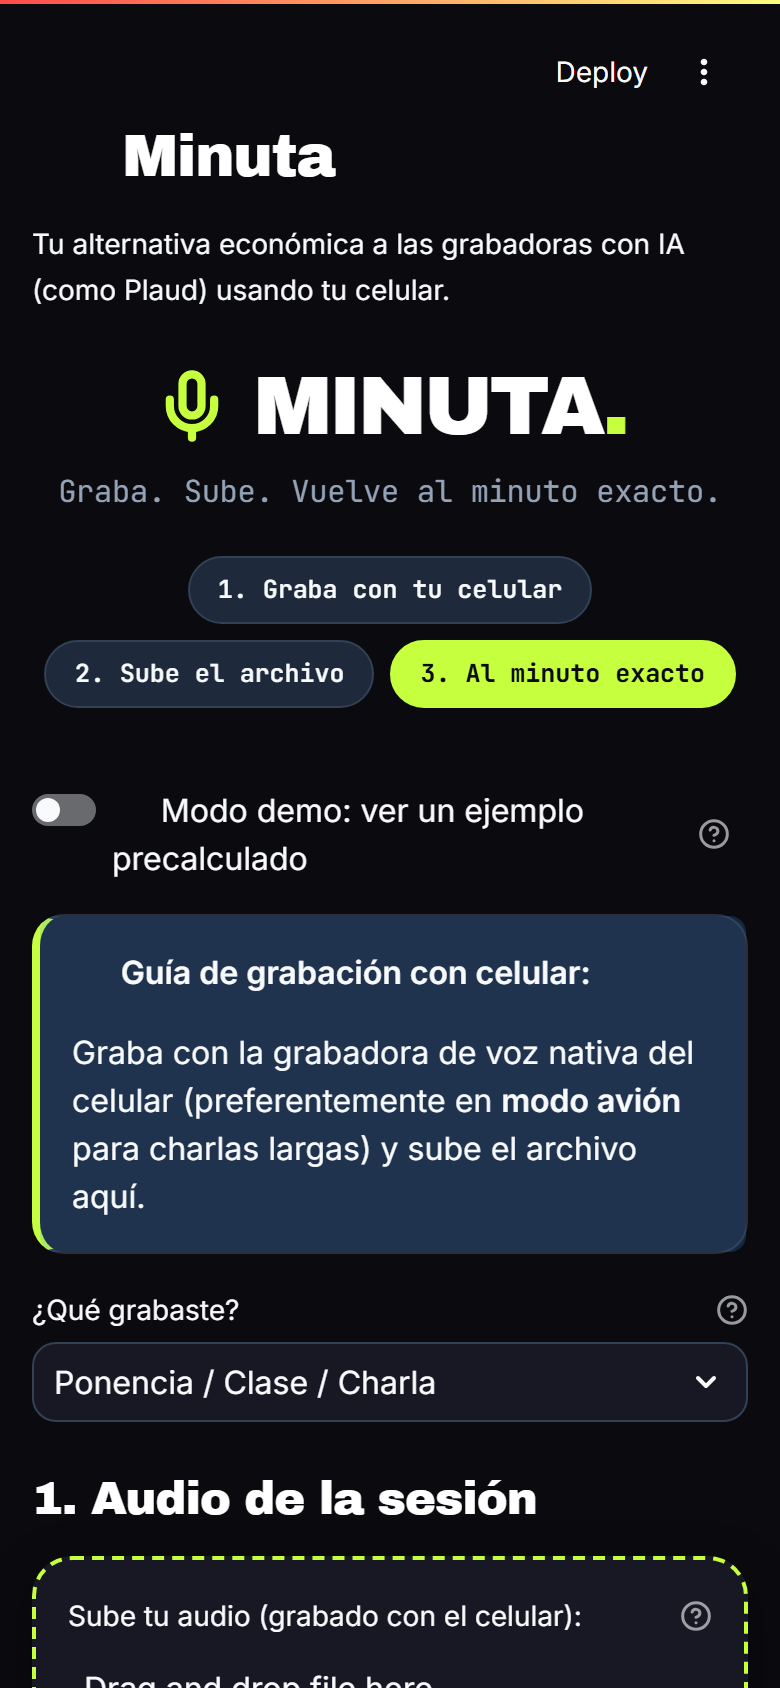
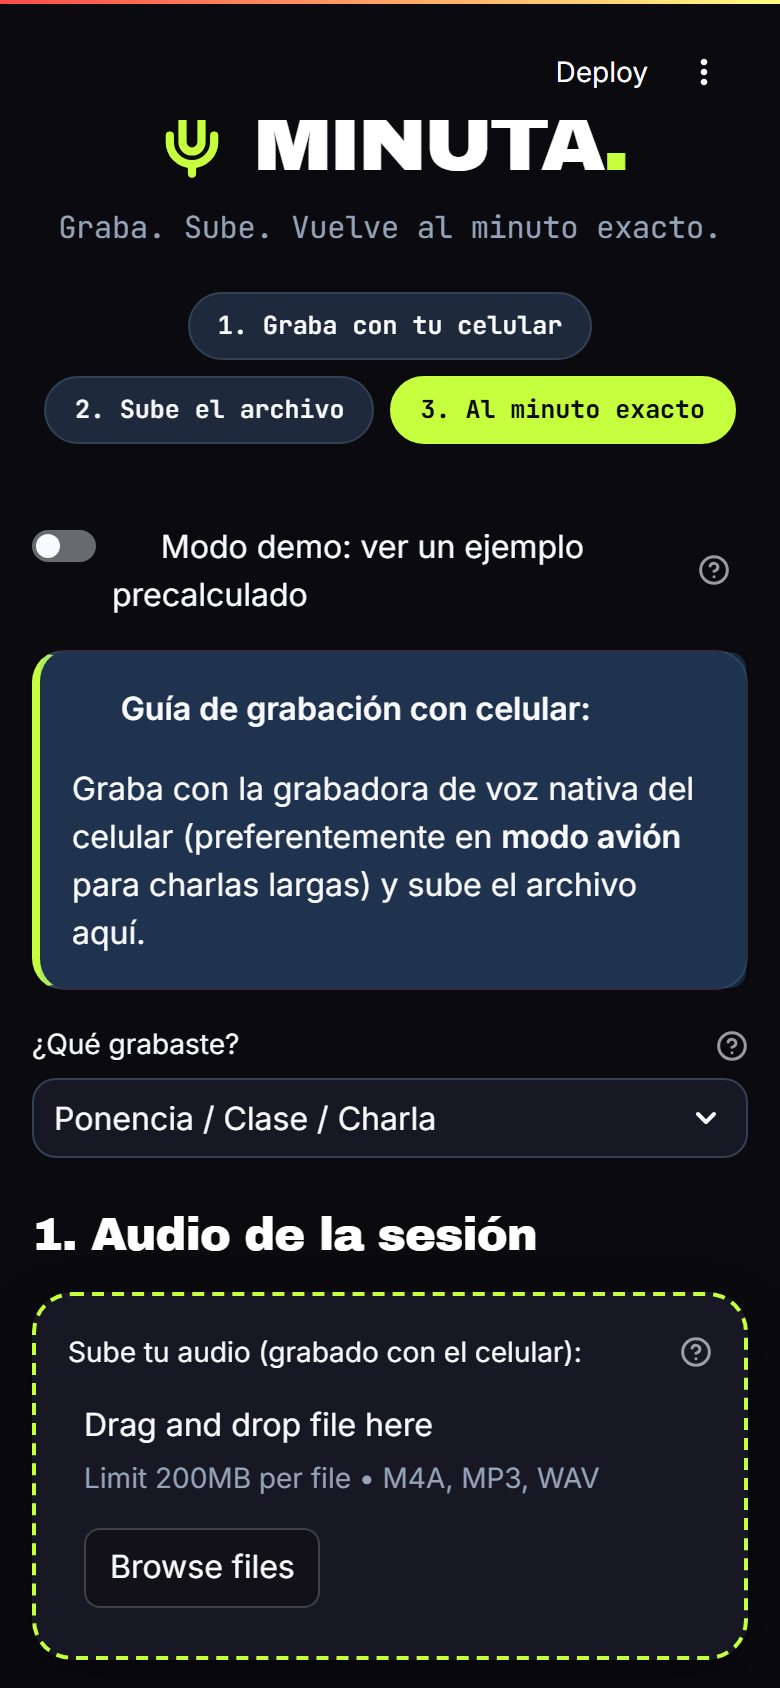
fix(app): el mapa mental se dibuja vacio en su pestana y encabezado duplicado
El mapa vive en una pestana que Streamlit monta oculta (ancho 0) y
markmap lo dibujaba al cargar: solo quedaba la raiz. Ahora se renderiza a
mano cuando el contenedor ya es visible y su ancho se estabilizo. Con
Playwright en modo demo: 1 nodo antes, 7 despues. El bug ya existia antes
del rediseno (mismo resultado en 7548c8c).

Ademas se quita el st.title viejo que duplicaba el encabezado de marca y
el div vacio que dibujaba una barra blanca sobre el mapa; se rehacen las
capturas 01 y 03.

diff --git a/app/streamlit_app.py b/app/streamlit_app.py
@@ -154,6 +154,11 @@ def generar_html_markmap(markdown_arbol: str, altura_px: int = 480) -> str:
       pointer-events: none;
     }}
   </style>
+  <script>
+    // El mapa vive en una pestaña que Streamlit monta oculta (ancho 0): si markmap lo
+    // dibuja al cargar, solo queda la raíz. Se renderiza a mano cuando ya es visible.
+    window.markmap = {{ autoLoader: {{ manual: true }} }};
+  </script>
   <script src="https://cdn.jsdelivr.net/npm/markmap-autoloader@{VERSION_MARKMAP_CDN}"></script>
 </head>
 <body>
@@ -166,16 +171,27 @@ def generar_html_markmap(markdown_arbol: str, altura_px: int = 480) -> str:
     <div class="markmap-help">Pellizca para zoom · Arrastra para mover</div>
   </div>
   <script>
+    var mapaRenderizado = false;
+    var esperaMapa = null;
     function renderizarMapa() {{
-      if (window.markmap && window.markmap.autoLoader) {{
-        window.markmap.autoLoader.renderAll();
-      }}
+      var contenedor = document.querySelector(".markmap-container");
+      if (mapaRenderizado || !contenedor || contenedor.clientWidth === 0) return;
+      // Espera a que la pestaña termine de desplegarse para que el ajuste use el ancho final.
+      clearTimeout(esperaMapa);
+      esperaMapa = setTimeout(function () {{
+        if (mapaRenderizado || contenedor.clientWidth === 0) return;
+        if (window.markmap && window.markmap.autoLoader) {{
+          mapaRenderizado = true;
+          window.markmap.autoLoader.renderAll();
+        }}
+      }}, 400);
     }}
-    window.addEventListener("DOMContentLoaded", renderizarMapa);
+    var contenedorMapa = document.querySelector(".markmap-container");
+    if (window.ResizeObserver && contenedorMapa) {{
+      new ResizeObserver(renderizarMapa).observe(contenedorMapa);
+    }}
     window.addEventListener("load", renderizarMapa);
-    if (document.readyState === "complete" || document.readyState === "interactive") {{
-      setTimeout(renderizarMapa, 50);
-    }}
+    window.addEventListener("resize", renderizarMapa);
   </script>
 </body>
 </html>"""
@@ -965,10 +981,8 @@ def renderizar_resultado(resultado: Any, transcripcion: Transcripcion | None, fu
 
         with pestana_mapa:
             st.markdown(f"**Árbol temático interactivo:** *{resultado.mapa.titulo}*")
-            st.markdown('<div class="minuta-map-frame">', unsafe_allow_html=True)
             html_mapa = generar_html_markmap(resultado.mapa.to_markdown(), altura_px=460)
             components.html(html_mapa, height=480, scrolling=False)
-            st.markdown('</div>', unsafe_allow_html=True)
 
             st.markdown("#### Nodos del mapa con marca temporal y cita literal")
             nodos_tiempo = extraer_nodos_con_tiempo(resultado.mapa.raiz)
@@ -1300,8 +1314,6 @@ def main() -> None:
         st.session_state["glosario_usuario"] = ", ".join(GLOSARIO_DEFECTO)
 
     # Encabezado principal
-    st.title("🎙 Minuta")
-    st.caption("Tu alternativa económica a las grabadoras con IA (como Plaud) usando tu celular.")
     _renderizar_encabezado_marca()
 
     # B5: el modo demo arranca apagado y queda visible arriba, fuera del expander.

diff --git a/tests/unit/test_app_esqueleto.py b/tests/unit/test_app_esqueleto.py
@@ -145,8 +145,7 @@ def test_app_test_render_modo_demo() -> None:
     app = AppTest.from_file(str(ROOT_DIR / "app" / "streamlit_app.py"))
     app.run()
     assert not app.exception, f"Excepción en AppTest: {app.exception}"
-    assert len(app.title) > 0
-    assert "Minuta" in app.title[0].value
+    assert any("MINUTA" in m.value for m in app.markdown)  # encabezado de marca
 
     # El modo demo arranca apagado (L51 B5); al activarlo se muestra el ejemplo sin excepciones.
     app.toggle[0].set_value(True).run()

diff --git a/tests/e2e/test_smoke.py b/tests/e2e/test_smoke.py
@@ -38,8 +38,7 @@ def test_smoke_inicio_app_modo_demo() -> None:
     at.run()
 
     assert not at.exception, f"Excepción al iniciar aplicación: {at.exception}"
-    assert len(at.title) > 0
-    assert "Minuta" in at.title[0].value
+    assert any("MINUTA" in m.value for m in at.markdown)  # encabezado de marca
     assert len(at.info) > 0
     assert "Guía de grabación" in at.info[0].value
 
